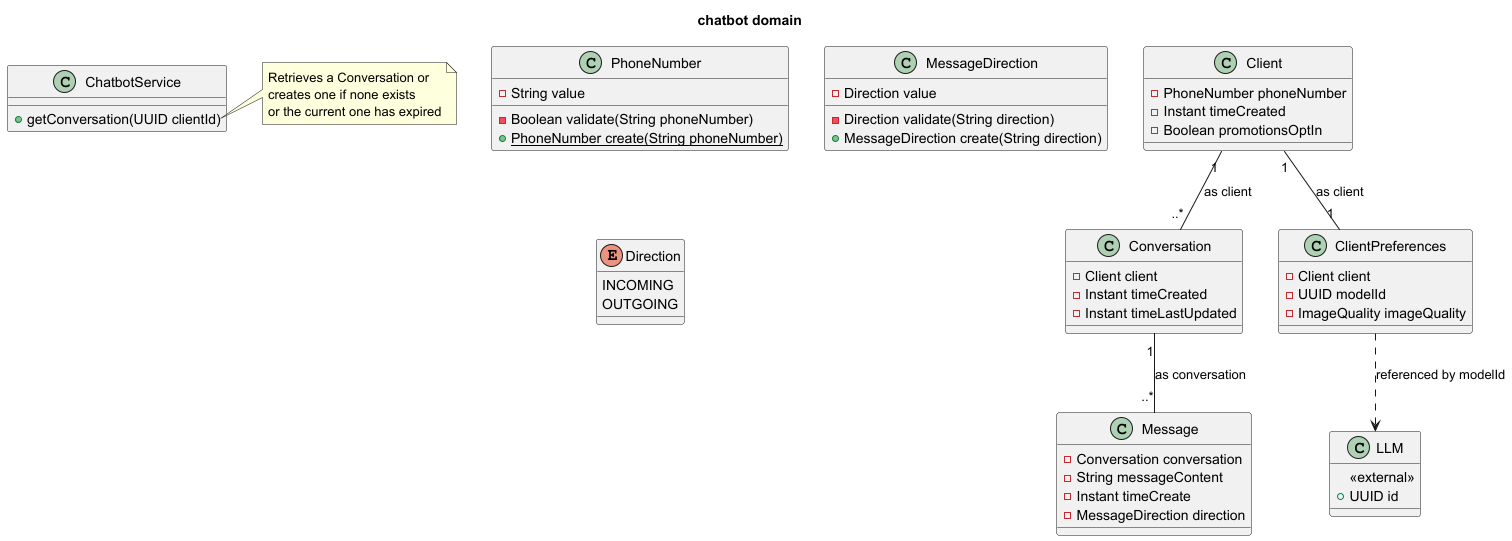
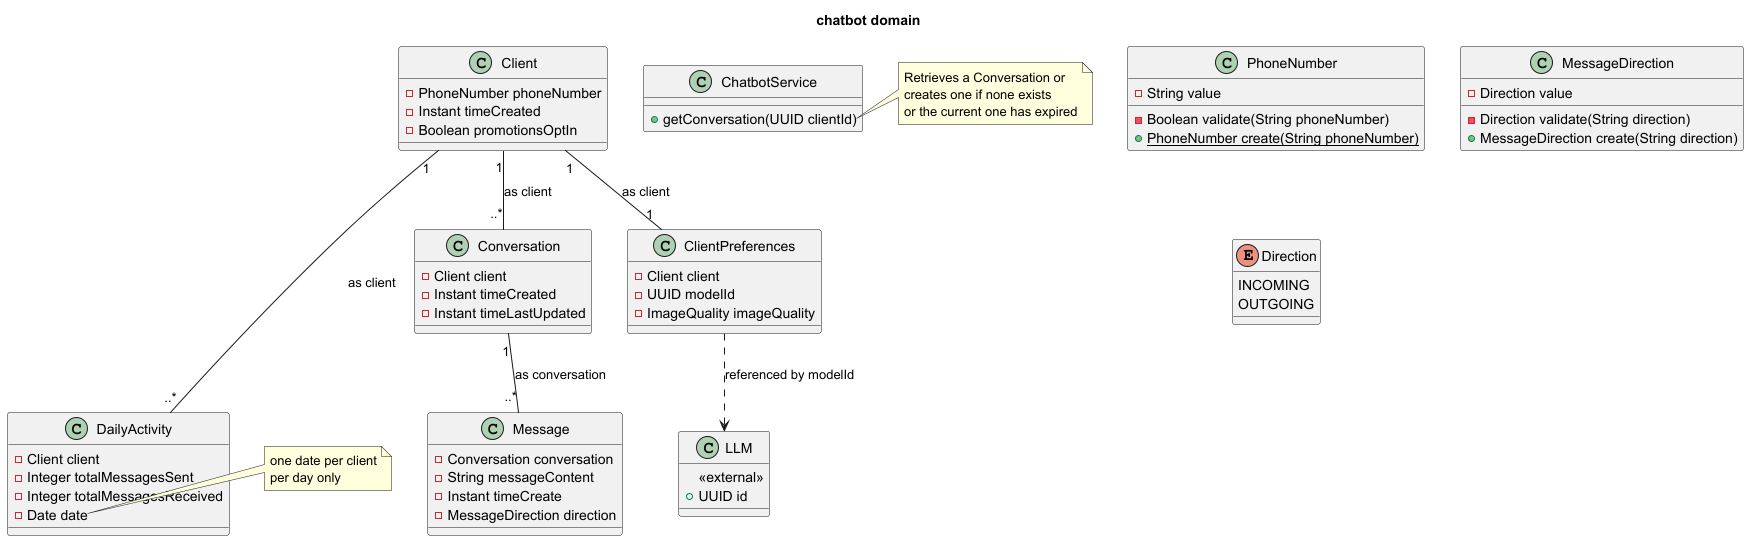
domain modelling more changes

diff --git a/docs/02-Analysis-and-design.md b/docs/02-Analysis-and-design.md
@@ -11,32 +11,61 @@ Domain identification
 
 ### Chatbot domain
 
-- Entities: client, client preferences, conversation, message, media
-- Value objects: phone number
+#### Entities:
+- client - info about the user
+- client preferences - info about the state of any customisable options
+- conversation - tracks conversations, conversation lasts 24 hours, deleted after 48 hours for privacy
+- message - incoming and outgoing messages
+- daily activity - tracks usage without sensitive data since conversations and messages will be deleted
+
+#### Value objects:
+- phone number
+- message direction
 
 ![diagram](uml/domain-modelling/images/chatbot_domain.png)
-* [puml file](uml/domain-modelling/chatbot-domain.puml)
+* [chatbot puml file](uml/domain-modelling/chatbot-domain.puml)
 
 ### LLM management domain
 
-- Entities: llm, client llm usage
-- Value object: llm input output mode
+#### Entities:
+- llm - info for different llm models
+- client llm usage
+- daily model aggregate - track daily usage for each model
+
+#### Value object
+- llm input
+- output mode
+- image quality
 
 ![diagram](uml/domain-modelling/images/llm_management_domain.png)
-* [puml file](uml/domain-modelling/llm-domain.puml)
+* [llm-management puml file](uml/domain-modelling/llm-domain.puml)
 
-### Subscription and billing
+### Subscription and billing domain
 
-- Entities: subscription plan, subscription, payment, currency, model limits
-- Value objects: currency iso
+#### Entities:
+- subscription plan
+- subscription
+- payment
+- currency
+- model limits
+
+#### Value objects:
+- currency iso
 
 ![diagram](uml/domain-modelling/images/subscription_domain.png)
-* [puml file](uml/domain-modelling/images/subscription_domain.png)
+* [subscription puml file](uml/domain-modelling/images/subscription_domain.png)
 
-### Administration
+### Administration domain
 
-- Entities: user, whatsapp template, campaign, message
-- Value objects: campaign type, message status
+#### Entities:
+- user - admin users
+- whatsapp template - whatsapp templates for bulk messaging
+- campaign - tracks status and performance of a bulk message
+- message - tracks individual copies of bulk message sent to clients
+
+#### Value objects:
+- campaign type
+- message status
 
 ![diagram](uml/domain-modelling/images/administration_domain.png)
-* [puml file](uml/domain-modelling/administration_domain.puml)
+* [administration puml file](uml/domain-modelling/administration_domain.puml)
